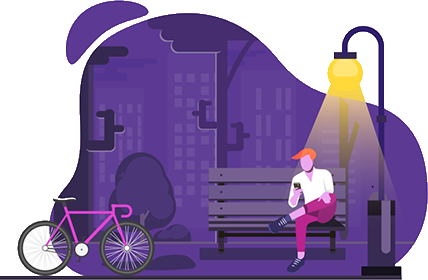
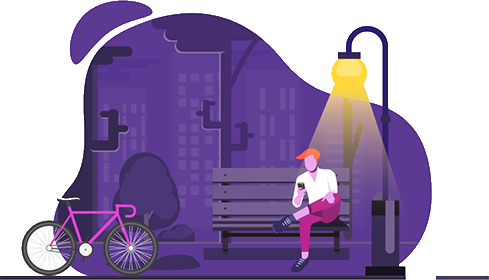
html and css update

diff --git a/index.html b/index.html
@@ -7,28 +7,29 @@
     <meta name="description" content="Bicycle app">
     <title>Bicycle app</title>
     <link rel="apple-touch-icon" sizes="180x180" href="./favicon/apple-touch-icon.png">
-<link rel="icon" type="image/png" sizes="32x32" href="./favicon/favicon-32x32.png">
-<link rel="icon" type="image/png" sizes="16x16" href="./favicon/favicon-16x16.png">
-<link rel="manifest" href="./favicon/site.webmanifest">
-<link rel="mask-icon" href="./favicon/safari-pinned-tab.svg" color="#5bbad5">
-<meta name="msapplication-TileColor" content="#da532c">
-<meta name="theme-color" content="#ffffff">
+    <link rel="icon" type="image/png" sizes="32x32" href="./favicon/favicon-32x32.png">
+    <link rel="icon" type="image/png" sizes="16x16" href="./favicon/favicon-16x16.png">
+    <link rel="manifest" href="./favicon/site.webmanifest">
+    <link rel="mask-icon" href="./favicon/safari-pinned-tab.svg" color="#5bbad5">
+    <meta name="msapplication-TileColor" content="#da532c">
+    <meta name="theme-color" content="#ffffff">
 
-<link rel="stylesheet" href="./css/main.css">
+    <link rel="stylesheet" href="./css/main.css">
 
 </head>
+
+
 <body  class="body">
     <header class="header">
         <img class="img" src="./img/logo.png" alt="Dviratis">
-        <div class="main-header">
+        <nav class="main-header">
             <a class="links" href="#">HOME</a> 
             <a class="links" href="#">BICYCLE</a>
             <a class="links" href="#">SUBCRIPTION</a>
             <a class="links" href="#">LOGIN</a>
-        </div>
+        </nav>
     </header>    
     <main class="main">
-        <img class="main-img" src="./img/suoliukas.png" alt="suoliukas">
         <div class="main-div">
             <h2 class="main-text" >Book your bicycle at any where, any time</h2>
             <p class="paragraph"> Book your ride using bicycle app, you can book your ride at any where, any time. Hurry up! for more offers</p>

diff --git a/css/main.css b/css/main.css
@@ -11,49 +11,52 @@ body {
 
 .body {
     background-color: white;
+    margin-top: 30px;
 }
 
 .header {
-    width: 90%; 
-    margin-left: 6%; 
-    margin-right: 3%; 
-    margin-top: 2%; 
+    width: 1000px;
+    margin-left: calc(50% - 500px);
     display: inline-block;
 }
 
 .img {
-    margin-left: 0%; 
-    margin-top: 0%; 
-    width: 6%; 
+    margin-left: 50px; 
     display: inline-block; 
-    font-size: 10px;
+    height: 60px;
 }
 
 .main-header {
     font-size: 20px;
-    width: 50%; float: 
-    right; margin-top: 2%;
+    width: 50%; 
+    float: right; 
+    margin-top: 20px;
 }
 .links {
-    margin-left: 10%; 
+    color: black;
+    margin-right: 50px; 
     text-decoration: none;
+}
+.links:hover{
+    color: #333c;
+    border-bottom: rgb(128, 81, 224) solid 3px;
+    padding-bottom: 5px;
 }
 .main{
     display: inline-block;
-    width: 90%; 
-    margin-left: 3%; 
-    margin-right: 5%; 
-    margin-top: 3%;
-}
-
-.main-img{
-    width: 53%;
+    width: 1000px; 
+    margin-left: calc(50% - 500px); 
+    margin-top: 60px;
+    background-image: url(../img/suoliukas.png);
+    background-repeat: no-repeat;
+    background-size: 620px;
 }
 
 .main-div{
     width: 40%; 
-    margin-top: 3%; 
+    margin-top: 50px; 
     float: right;
+    padding-bottom: 200px;
 }
 
 .main-text{
@@ -63,15 +66,22 @@ body {
 
 .paragraph{
     font-size: 15px;
+    margin-top: 10px;
 }
 
 .main-link{
+    margin-top: 25px;
     display: inline-block; 
     text-decoration: none; 
-    border: 25px solid rgb(128, 81, 224); 
+    border: 20px solid rgb(128, 81, 224); 
     border-radius: 50px; 
     padding-right: 70px; 
     padding-left: 70px; 
     background-color: rgb(128, 81, 224); 
     color: white;
+}
+
+.main-link:hover {
+    border: 20px solid rgb(60, 49, 83);
+    background-color: rgb(60, 49, 83) ;
 }
